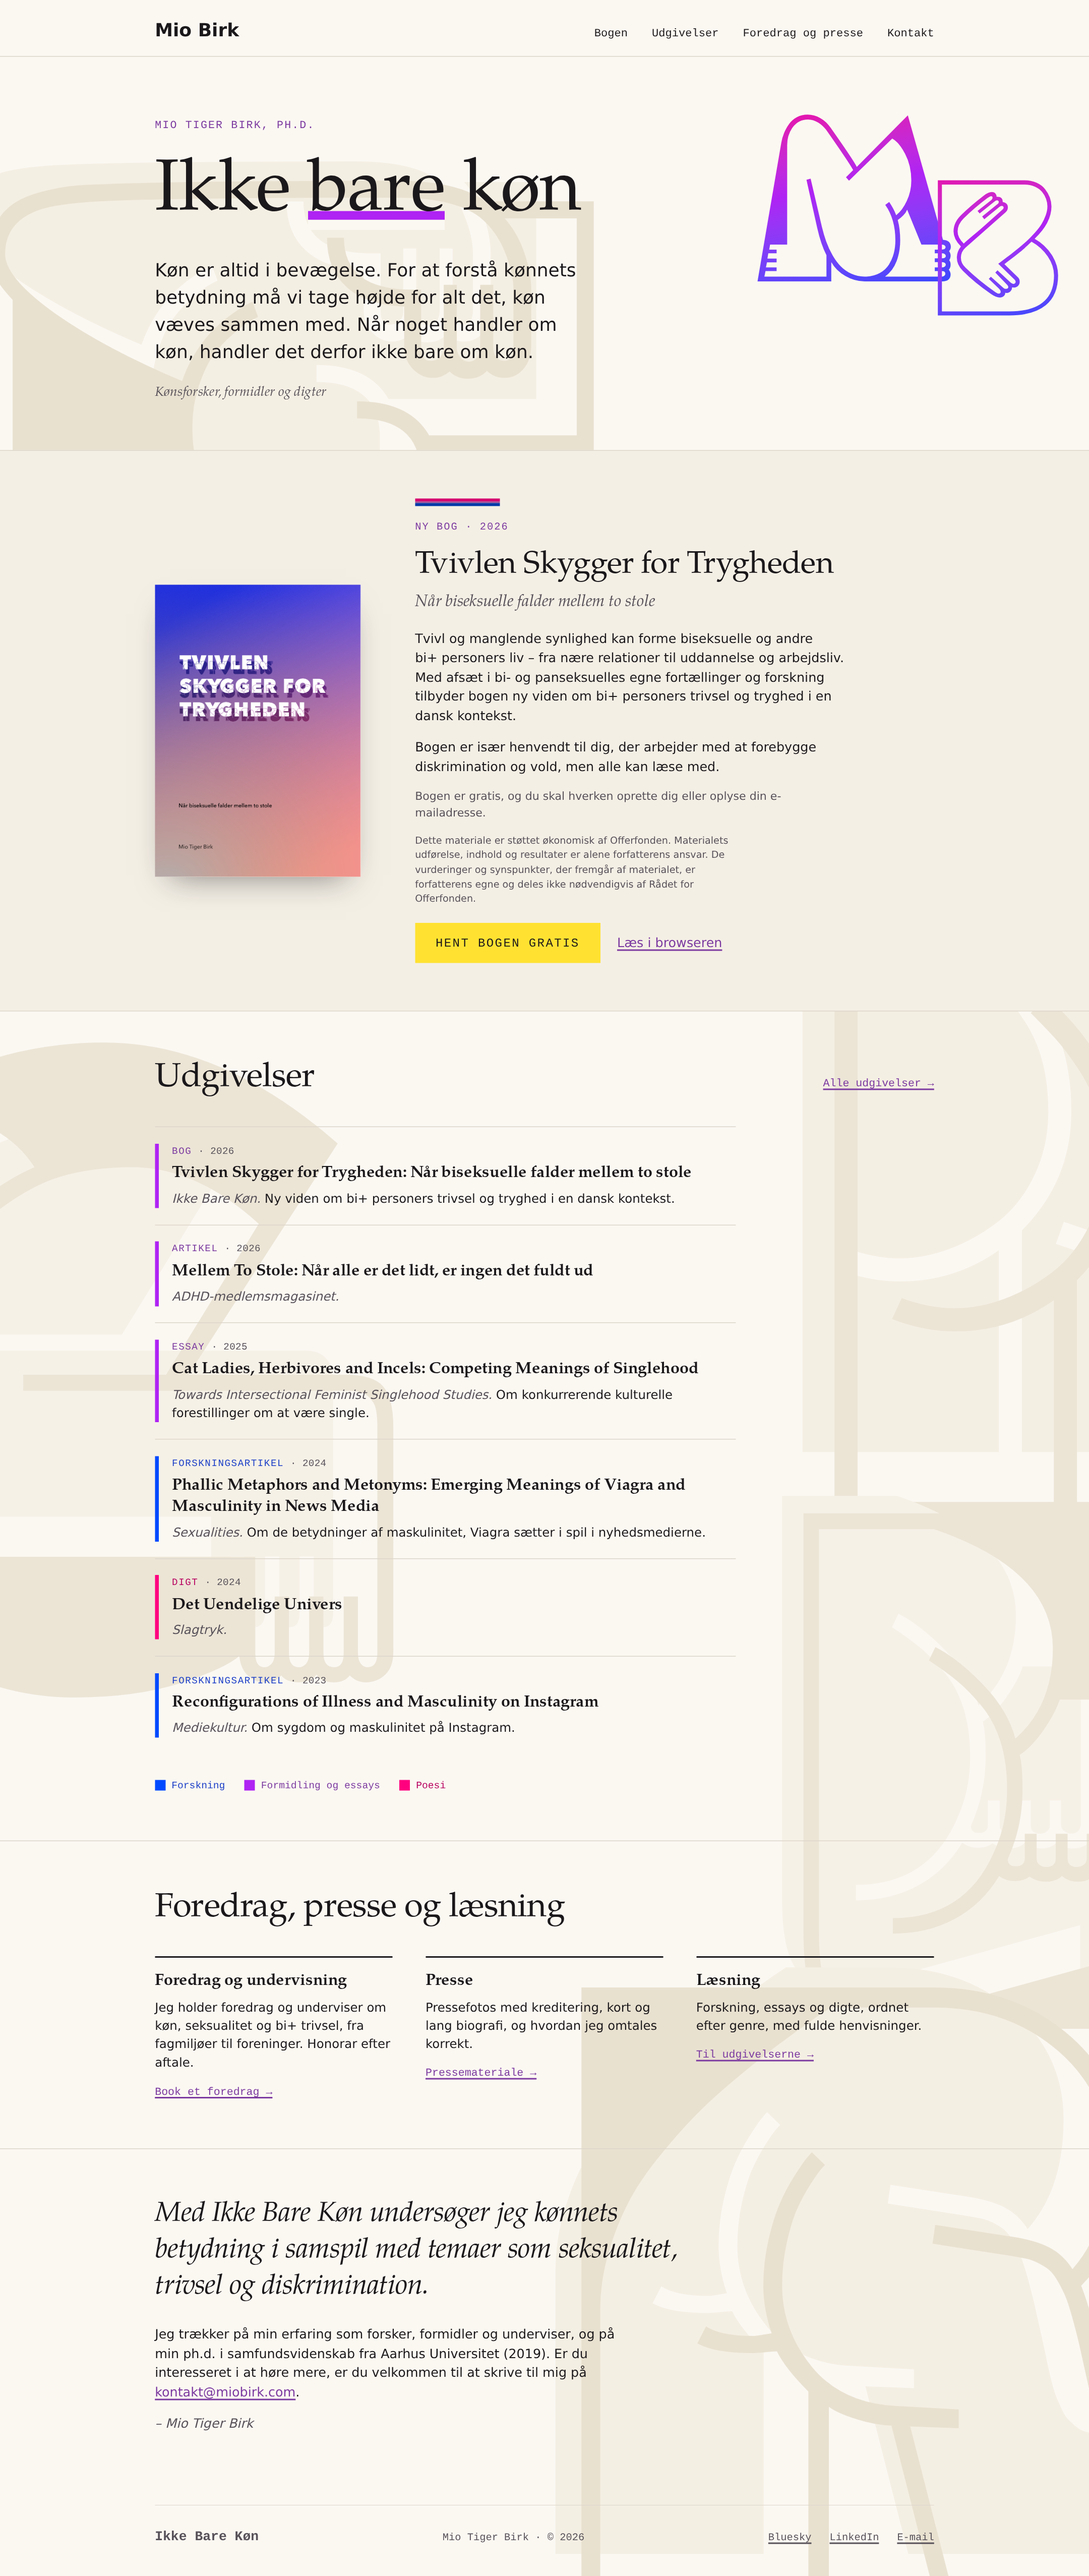
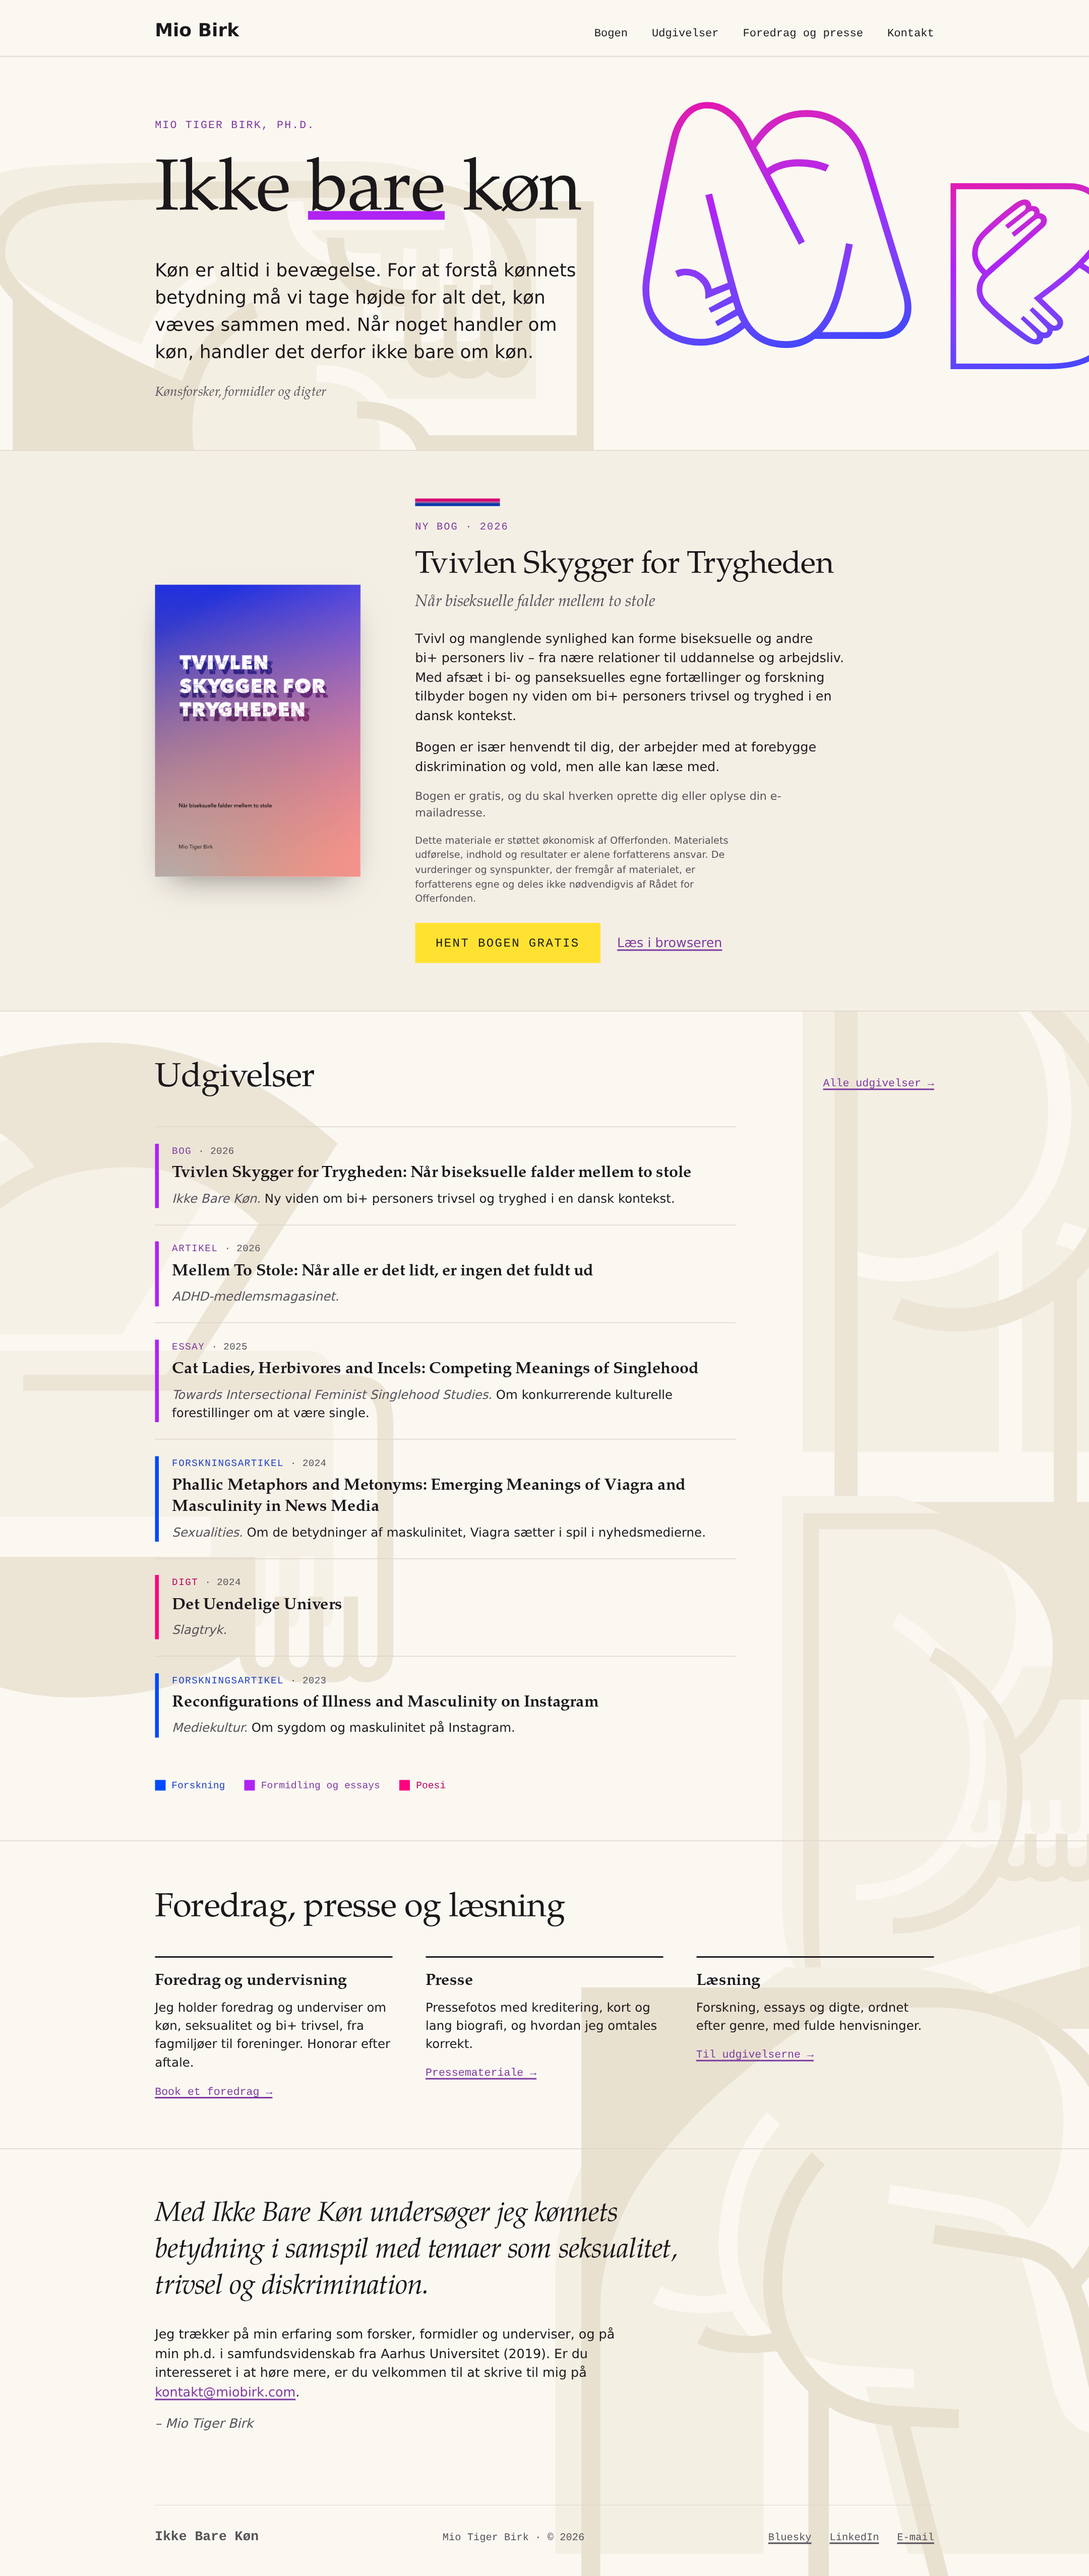
Hero duo bigger and outline-only, anchored to the hero
The hero pair grew to 22 and 27rem and both glyphs are now lowercase
Claire forms, the pure outline cut. The hero is now the duo's
containing block (it was positioned against the body, which also
caused a 48px horizontal overflow, fixed by position:relative on the
hero).

Claude-Session: https://claude.ai/code/session_01J3ibStbM354Uyysr7SDB7m

Changed region(s): [[0.5894, 0.0311, 1.0, 0.1556]]

diff --git a/design/directions/retning-7-overlappet.html b/design/directions/retning-7-overlappet.html
@@ -107,13 +107,13 @@ a:focus-visible{outline:2.5px solid var(--ink);outline-offset:3px}
 @media (max-width:56rem){.fesse{opacity:.8}}
 /* The hero's own pair: two partially overlapping outline-only glyphs at
    medium size, full gradient, no solid layer. */
-.hero{overflow:hidden}
+.hero{position:relative;overflow:hidden}
 .hero .duo{position:absolute;line-height:1;pointer-events:none;user-select:none;
   background:linear-gradient(170deg,var(--rosa) 0%,var(--lilla) 48%,var(--blaa) 100%);
   -webkit-background-clip:text;background-clip:text;color:transparent}
-.hero .duo1{font-family:'Typefesse Claire-Obscure',sans-serif;font-size:clamp(11rem,24vw,19rem);top:1.5rem;right:11rem}
-.hero .duo2{font-family:'Typefesse Claire-Obscure',sans-serif;font-size:clamp(9rem,20vw,16rem);top:7rem;right:2rem}
-@media (max-width:56rem){.hero .duo1{right:-4rem}.hero .duo2{display:none}}
+.hero .duo1{font-family:'Typefesse Claire-Obscure',sans-serif;font-size:clamp(15rem,32vw,27rem);top:-1rem;right:14rem}
+.hero .duo2{font-family:'Typefesse Claire-Obscure',sans-serif;font-size:clamp(12rem,26vw,22rem);top:6rem;right:-3rem}
+@media (max-width:56rem){.hero .duo1{right:-6rem}.hero .duo2{display:none}}
 header,main,footer{position:relative;z-index:1}
 
 /* Masthead */
@@ -249,7 +249,7 @@ footer .flinks{display:flex;gap:1.5rem}
 
 <main id="indhold">
   <section class="hero">
-    <span class="duo duo1" aria-hidden="true">M</span>
+    <span class="duo duo1" aria-hidden="true">m</span>
     <span class="duo duo2" aria-hidden="true">b</span>
     <div class="wrap">
       <p class="kicker">Mio Tiger Birk, ph.d.</p>
